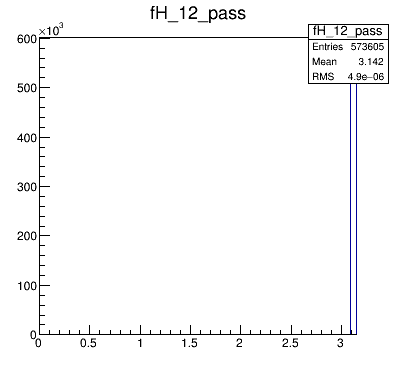
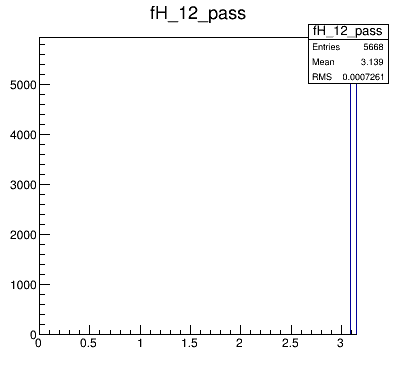
results added

diff --git a/psdecay.cpp b/psdecay.cpp
@@ -24,6 +24,8 @@ PsDecay::PsDecay(int noOfGammas, float R, float L)
     fNumberOfGammas_ = 0;
     double hypotenuse = sqrt(fR_*fR_+fL_*fL_/4.0);
     fMinCos_ = fL_/2.0/hypotenuse;
+
+    cs_ = new ComptonScattering();
     if(noOfGammas==3)
     {
         //histograms for all events
@@ -138,13 +140,13 @@ PsDecay::PsDecay(int noOfGammas, float R, float L)
     // histograms common for all particles
     fH_en_ = new TH1F((std::string("fH_en_")+std::to_string(noOfGammas)).c_str(), "fH_en_", 100, 0.0, 0.6);
     fH_en_ -> SetTitle("Energy distribution");
-    fH_en_ -> GetXaxis()->SetTitle("E [GeV]");
+    fH_en_ -> GetXaxis()->SetTitle("E [MeV]");
     fH_en_ -> GetXaxis()->SetTitleOffset(2.);
     fH_en_ -> GetYaxis()->SetTitle("dN/dE");
     fH_en_ -> GetYaxis()->SetTitleOffset(2.);
     fH_p_ = new TH1F((std::string("fH_p_")+std::to_string(noOfGammas)).c_str(), "fH_p_", 100, 0.0, 0.6);
     fH_p_ -> SetTitle("Momentum distribution");
-    fH_p_ -> GetXaxis()->SetTitle("p [GeV/c]");
+    fH_p_ -> GetXaxis()->SetTitle("p [MeV/c]");
     fH_p_ -> GetXaxis()->SetTitleOffset(2.);
     fH_p_ -> GetYaxis()->SetTitle("dN/dp");
     fH_p_ -> GetYaxis()->SetTitleOffset(2.);
@@ -164,13 +166,13 @@ PsDecay::PsDecay(int noOfGammas, float R, float L)
     //histograms for particles that passed through cuts
     fH_en_pass_ = new TH1F((std::string("fH_en_pass_")+std::to_string(noOfGammas)).c_str(), "fH_en_", 100, 0.0, 0.6);
     fH_en_pass_ -> SetTitle("Energy distribution");
-    fH_en_pass_ -> GetXaxis()->SetTitle("E [GeV]");
+    fH_en_pass_ -> GetXaxis()->SetTitle("E [MeV]");
     fH_en_pass_ -> GetXaxis()->SetTitleOffset(2.);
     fH_en_pass_ -> GetYaxis()->SetTitle("dN/dE");
     fH_en_pass_ -> GetYaxis()->SetTitleOffset(2.);
     fH_p_pass_ = new TH1F((std::string("fH_p_pass_")+std::to_string(noOfGammas)).c_str(), "fH_p_", 100, 0.0, 0.6);
     fH_p_pass_ -> SetTitle("Momentum distribution");
-    fH_p_pass_ -> GetXaxis()->SetTitle("p [GeV/c]");
+    fH_p_pass_ -> GetXaxis()->SetTitle("p [MeV/c]");
     fH_p_pass_ -> GetXaxis()->SetTitleOffset(2.);
     fH_p_pass_ -> GetYaxis()->SetTitle("dN/dp");
     fH_p_pass_ -> GetYaxis()->SetTitleOffset(2.);
@@ -190,13 +192,13 @@ PsDecay::PsDecay(int noOfGammas, float R, float L)
     //histograms for particles that did not pass through cuts
     fH_en_fail_ = new TH1F((std::string("fH_en_fail_")+std::to_string(noOfGammas)).c_str(), "fH_en_", 100, 0.0, 0.6);
     fH_en_fail_ -> SetTitle("Energy distribution");
-    fH_en_fail_ -> GetXaxis()->SetTitle("E [GeV]");
+    fH_en_fail_ -> GetXaxis()->SetTitle("E [MeV]");
     fH_en_fail_ -> GetXaxis()->SetTitleOffset(2.);
     fH_en_fail_ -> GetYaxis()->SetTitle("dN/dE");
     fH_en_fail_ -> GetYaxis()->SetTitleOffset(2.);
     fH_p_fail_ = new TH1F((std::string("fH_p_fail_")+std::to_string(noOfGammas)).c_str(), "fH_p_", 100, 0.0, 0.6);
     fH_p_fail_ -> SetTitle("Momentum distribution");
-    fH_p_fail_ -> GetXaxis()->SetTitle("p [GeV/c]");
+    fH_p_fail_ -> GetXaxis()->SetTitle("p [MeV/c]");
     fH_p_fail_ -> GetXaxis()->SetTitleOffset(2.);
     fH_p_fail_ -> GetYaxis()->SetTitle("dN/dp");
     fH_p_fail_ -> GetYaxis()->SetTitleOffset(2.);
@@ -283,8 +285,8 @@ void PsDecay::AddEvent(Double_t weight, TLorentzVector* gamma1,  TLorentzVector*
             if(gammas[ii])
             {
                 //filling histograms for all gammas
-                fH_en_->Fill(gammas[ii]->Energy());
-                fH_p_->Fill(gammas[ii]->P());
+                fH_en_->Fill(gammas[ii]->Energy()*1000);
+                fH_p_->Fill(gammas[ii]->P()*1000);
                 fH_phi_->Fill(gammas[ii]->Phi());
                 fH_cosTheta_->Fill(gammas[ii]->CosTheta());
                 fH_gamma_cuts_->Fill(0);
@@ -304,16 +306,19 @@ void PsDecay::AddEvent(Double_t weight, TLorentzVector* gamma1,  TLorentzVector*
                         break;
                 }
                 //filling histograms only for gammas that passed cuts
-                fH_en_pass_->Fill(gammas[ii]->Energy());
-                fH_p_pass_->Fill(gammas[ii]->P());
+                fH_en_pass_->Fill(gammas[ii]->Energy()*1000);
+                fH_p_pass_->Fill(gammas[ii]->P()*1000);
                 fH_phi_pass_->Fill(gammas[ii]->Phi());
                 fH_cosTheta_pass_->Fill(gammas[ii]->CosTheta());
+                //performing scattering
+                cs_->Scatter(gammas[ii]->Energy()*1000);
+
             }
             else if(gammas[ii])
             {
                 //filling histograms only for gammas that passed cuts
-                fH_en_fail_->Fill(gammas[ii]->Energy());
-                fH_p_fail_->Fill(gammas[ii]->P());
+                fH_en_fail_->Fill(gammas[ii]->Energy()*1000);
+                fH_p_fail_->Fill(gammas[ii]->P()*1000);
                 fH_phi_fail_->Fill(gammas[ii]->Phi());
                 fH_cosTheta_fail_->Fill(gammas[ii]->CosTheta());
             }
@@ -363,6 +368,7 @@ void PsDecay::AddEvent(Double_t weight, TLorentzVector* gamma1,  TLorentzVector*
 ///
 void PsDecay::DrawHistograms(std::string prefix, bool all, bool pass, bool fail, bool compare, bool cuts)
 {
+    cs_->DrawElectronDist();
     std::string outFile;
     if(cuts)
     {

diff --git a/comptonscattering.cpp b/comptonscattering.cpp
@@ -1,6 +1,108 @@
 #include "comptonscattering.h"
+#include "TImage.h"
+#include "TRandom3.h"
+#include "TCanvas.h"
 
+///
+/// \brief ComptonScattering::ComptonScattering Constructs histograms and TF1 object.
+///
 ComptonScattering::ComptonScattering()
 {
+    fH_electron_E_ = new TH1F("fH_electron_E_", "fH_electron_E_", 100, 0.0, 0.2);
+    fH_electron_E_->SetTitle("Energy distribution");
+    fH_electron_E_->GetXaxis()->SetTitle("E [MeV]");
+    fH_electron_E_->GetYaxis()->SetTitle("dN/dE");
+    fH_electron_E_->GetYaxis()->SetTitleOffset(1.8);
+    fH_electron_theta_ = new TH1F("fH_electron_theta_", "fH_electron_theta_", 100, 0.0, TMath::Pi()/2.);
+    fH_electron_theta_->SetTitle("Scattering angle distribution");
+    fH_electron_theta_->GetXaxis()->SetTitle("#theta");
+    fH_electron_theta_->GetYaxis()->SetTitle("dN/d#theta");
+    fH_electron_theta_->GetYaxis()->SetTitleOffset(1.8);
+
+    fH_PDF_ = new TH2D("fH_PDF_", "fH_PDF_", 1000, 0.0, 1.022, 1000, 0.0, TMath::Pi()/2.0);
+    fH_PDF_->SetTitle("Klein-Nishima function");
+    fH_PDF_->GetXaxis()->SetTitle("E [MeV]");
+    fH_PDF_->GetYaxis()->SetTitle("#theta'");
+    fH_PDF_->SetStats(kFALSE);
+
+    fPDF = new TF1("KleinNishima_", KleinNishina_, 0.0 , 1.022, 1);
+}
+
+///
+/// \brief ComptonScattering::DrawPDF Draws Klein-Nishina function and saves to a file.
+///
+void ComptonScattering::DrawPDF()
+{
+    std::cout<<"[INFO] Drawing Klein-Nishima function."<<std::endl;
+    int range = 1000;
+    for(int xx=0; xx<range; xx++)
+    {
+        double E[1] = {xx/((float)range)*1.022};
+
+        for(int yy=0; yy<range; yy++)
+        {
+            double theta[1] = {yy/((float)range)*TMath::Pi()/2};
+            long double val = fPDF->EvalPar(theta, E);
+            fH_PDF_->SetBinContent(xx, yy, val);
+        }
+
+    }
+    TCanvas* c = new TCanvas("c", "c", 670, 380);
+    fH_PDF_->Draw("colz");
+    TImage *img2 = TImage::Create();
+    img2->FromPad(c);
+    img2->WriteImage("Klein-Nishina.png");
+    std::cout<<"[INFO] Klein-Nishina function saved to file.\n"<<std::endl;
 
 }
+
+///
+/// \brief ComptonScattering::DrawElectronDist Draws and saves to file energy and angle distributions of Compton electrons.
+///
+void ComptonScattering::DrawElectronDist()
+{
+    std::cout<<"[INFO] Drawing histograms for Compton electrons."<<std::endl;
+    TCanvas* c = new TCanvas("c", "Compton electrons", 850, 380);
+    c->Divide(2,1);
+    c->cd(1);
+    fH_electron_E_ ->Draw();
+    c->cd(2);
+    fH_electron_theta_->Draw();
+    TImage *img2 = TImage::Create();
+    img2->FromPad(c);
+    img2->WriteImage("results/compton/_compton_distr.png");
+    std::cout<<"[INFO] Compton electrons' angle and energy distributions saved.\n"<<std::endl;
+}
+
+///
+/// \brief ComptonScattering::Scatter Scatters a photon according to Klein-Nishina formula and fills histograms for electrons.
+/// \param E Energy of incident photon.
+///
+void ComptonScattering::Scatter(double E)
+{
+    TRandom3 r(0);
+    fPDF->SetParameter(0, E);
+    double theta = fPDF->GetRandom();
+    fH_electron_theta_->Fill(theta);
+    double new_E = E * (1.0 - 1.0/(1.0+(E/(e_mass_MeV))*(1-TMath::Cos(theta)))); //E*(1-P)
+//    std::cout<<new_E<<" ";
+    fH_electron_E_->Fill(new_E);
+}
+
+///
+/// \brief ComptonScattering::KleinNishima Calculates PDF according to Klein Nishima formula.
+/// \param x Array of values, x[0] -- incident photon's energy, x[1] -- scattering angle
+/// \param params
+/// \return Value of the function.
+///
+long double ComptonScattering::KleinNishina_(double* angle, double* energy)
+{
+    long double denom = 1L+(energy[0]/(e_mass_MeV))*(1-TMath::Cos(angle[0]));
+    long double P = 1.0L/denom;
+//    std::cout<<"E="<<x[0]<<" theta="<<x[1]<<" P="<<P<<std::endl;
+    return 0.5L*fine_structure_const_*fine_structure_const_*r_Compton_SI*r_Compton_SI\
+            *P*P*(P + denom - TMath::Sin(angle[0])*TMath::Sin(angle[0]));
+}
+
+
+

diff --git a/simulate.cpp b/simulate.cpp
@@ -1,7 +1,7 @@
 /// @file simulate.cpp
 /// @author Rafal Maselek <rafal.maselek@ncbj.gov.pl>
 /// @date 01.06.2017
-/// @version 1.0
+/// @version 1.1
 ///
 /// @section DESCRIPTION
 /// Simple simulation of positronium decay to 2 or 3 gammas.
@@ -11,6 +11,7 @@
 /// generated. If another or no argument is specified, both scenarios will be generated.
 
 #include "psdecay.h"
+//#include "constants.h"
 //#include <iostream>
 #include "TGenPhaseSpace.h"
 #include <iomanip>
@@ -51,7 +52,7 @@ PsDecay* simulateDecayTo3(TLorentzVector Ps, Int_t simSteps=1000000)
 /// \param simSteps Number of events to be simulated, also the number of simulation steps.
 /// \return An instance of PsDecay class.
 ///
-PsDecay* simulateDecayTo2(TLorentzVector Ps, Int_t simSteps=1000000)
+PsDecay* simulateDecayTo2(TLorentzVector Ps, Int_t simSteps=1000)
 {
 //    if (!gROOT->GetClass("TGenPhaseSpace")) gSystem.Load("libPhysics");
     PsDecay* decayTo2 = new PsDecay(2);
@@ -79,8 +80,8 @@ PsDecay* simulateDecayTo2(TLorentzVector Ps, Int_t simSteps=1000000)
 void simulate()//int noOfGammas)
 {
    int noOfGammas = noOfGammasToSimulate;
-   TLorentzVector Ps(0.000001, 0.00001, 0.000001, 1.022); //zrodlo
-   Int_t simSteps = 1000000;
+   TLorentzVector Ps(0.000001, 0.000001, 0.000001, 1.022/1000); //zrodlo [GeV/c, GeV]
+   Int_t simSteps = 100000;
    PsDecay* decayTo2;
    PsDecay* decayTo3;
    if(noOfGammas==2)
@@ -136,7 +137,9 @@ void simulate()//int noOfGammas)
 ///
 int main(int argc, char* argv[])
 {
-//  std::cout<<"main"<<std::endl;
+  PrintConstants();
+//  ComptonScattering* cs = new ComptonScattering();
+//  cs->DrawPDF();
   if(argc>1)
     noOfGammasToSimulate = atoi(argv[1]);
   simulate();

diff --git a/constants.h b/constants.h
@@ -1,4 +1,29 @@
 #ifndef CONSTANTS_H
 #define CONSTANTS_H
+#include "TMath.h"
+#include <iostream>
+
+const long double fine_structure_const_ = 0.0072973525664L; //(17)
+const long double h_bar_SI = 1.054571800L*TMath::Power(10, -34);// [J*s]
+const long double h_bar_eV = 6.582119514L*TMath::Power(10, -16);// [eV*s]
+const long double light_speed_SI = 299792458L; // [m/s]
+const long double e_mass_SI = 9.10938356L * TMath::Power(10, -31);// [kg]
+const long double e_mass_MeV = 0.5109989461L; // (13) [MeV/c^2]
+const long double r_Compton_SI= h_bar_eV*light_speed_SI/(e_mass_MeV*1000000);
+
+///
+/// \brief PrintConstants Prints to the standard output all physics constants defined in constants.h
+///
+inline void PrintConstants()
+{
+    std::cout<<"***CONSTANTS:"<<std::endl;
+    std::cout<<"* FINE STRUCTURE: "<<fine_structure_const_<<std::endl;
+    std::cout<<"* H BAR: "<<h_bar_SI<<" [J*s]"<<std::endl;
+    std::cout<<"* H_BAR: "<<h_bar_eV<<" [eV*s]"<<std::endl;
+    std::cout<<"* C (SI): "<<light_speed_SI<<" [m/s]"<<std::endl;
+    std::cout<<"* ELECTRON MASS: "<<e_mass_SI<<" [kg]"<<std::endl;
+    std::cout<<"* ELECTRON MASS: "<<e_mass_MeV<<" [MeV/c^2]"<<std::endl;
+    std::cout<<"* COMPTON R: "<<r_Compton_SI<<" [m]"<<std::endl<<std::endl;
+}
 
 #endif // CONSTANTS_H

diff --git a/comptonscattering.h b/comptonscattering.h
@@ -1,11 +1,29 @@
 #ifndef COMPTONSCATTERING_H
 #define COMPTONSCATTERING_H
+#include "TLorentzVector.h"
+#include "TH1.h"
+#include "TH2.h"
+#include "constants.h"
+#include "TF2.h"
 
-
+///
+/// \brief The ComptonScattering class Class responsible for Compton scattering according to the Klein-Nishina formula.
+///
 class ComptonScattering
 {
-public:
-    ComptonScattering();
+    public:
+        ComptonScattering();
+        void DrawPDF();
+        void DrawElectronDist();
+        void Scatter(double E); //perfors scattering
+        TF1* fPDF;  //special root object
+
+    private:
+        static long double KleinNishina_(double* angle, double* energy);
+        TH1F* fH_electron_E_;   //energy distribution for electrons
+        TH1F* fH_electron_theta_;   //angle distribution for electrons
+        TH2D* fH_PDF_;  // Klein-Nishina function plot, for testing purpose only
+
 };
 
 #endif // COMPTONSCATTERING_H

diff --git a/psdecay.h b/psdecay.h
@@ -15,6 +15,7 @@
 #include <string>
 #include <cmath>
 
+#include "comptonscattering.h"
 ///
 /// \brief The PsDecay class Contains all information about simulation of a certain type of decay.
 ///
@@ -35,6 +36,8 @@ class PsDecay
         // info about decay products
         int fNoOfDecayProducts_;
         std::vector<Double_t> fMasses_;
+        // Compton scattering
+        ComptonScattering* cs_;
 
         // histograms with relative angles for all events generated
         TH1F* fH_12_;
